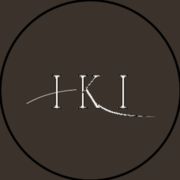
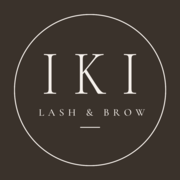
Rename to IKI Lash & Brow
- Brand name, page titles, structured data, manifest and READMEs now read
  "IKI Lash & Brow"; the studio is called "studio" in the copy.
- LASH & BROW is set in spaced Cormorant Garamond capitals with a short
  rule under it, as on the new brand board (hero, header, footer).
- Round studio badge on the portrait, and as the app icons.
- New social images with the new name.

diff --git a/site/src/data/site.ts b/site/src/data/site.ts
@@ -25,11 +25,11 @@ export const ACCENT_PRESETS = {
 } as const;
 
 export const SITE = {
-	name: 'IKI Lash Atelier',
+	name: 'IKI Lash & Brow',
 	/** First name of the artist (about text, structured data) */
 	artist: 'Mai',
 	/** The wordmark (drawn as the logo), then the words spelled out under it */
-	heroLines: ['IKI', 'Lash Atelier'],
+	heroLines: ['IKI', 'Lash & Brow'],
 	/**
 	 * City of the studio. The most important detail for local search
 	 * ("Wimpernverlängerung Hamburg"): once filled in, it is added to the page
@@ -101,22 +101,22 @@ const BRUSH = ['.......##', '......###', '.....###.', '....##...', '...#.....', 
  */
 const en = {
 	meta: {
-		title: 'Lash Extensions & Permanent Makeup | IKI Lash Atelier',
+		title: 'Lash Extensions & Permanent Makeup | IKI Lash & Brow',
 		/** Used instead of `title` once SITE.city is filled in */
-		titleCity: 'Lash Extensions & Permanent Makeup in {city} | IKI Lash Atelier',
+		titleCity: 'Lash Extensions & Permanent Makeup in {city} | IKI Lash & Brow',
 		description:
 			'Natural lash extensions, signature lash design, powder brows, lip blush and permanent eyeliner, plus bridal makeup. Naturally beautiful, individually designed.',
 		jobTitle: 'Lash artist, permanent makeup artist & makeup artist',
 		image: '/og-image.jpg',
-		imageAlt: 'IKI Lash Atelier — lash extensions and permanent makeup',
+		imageAlt: 'IKI Lash & Brow — lash extensions, brows and permanent makeup',
 	},
 	copy: {
 		hero: {
 			label: '[Lashes · Permanent makeup · Makeup artist]',
-			tagline: 'Naturally beautiful, individually designed. Eight images to step inside the atelier.',
+			tagline: 'Naturally beautiful, individually designed. Eight images to step inside the studio.',
 		},
 		intro: {
-			label: '[01] — Atelier',
+			label: '[01] — Studio',
 			title: ['Naturally', 'beautiful.'],
 			text: 'Lash extensions, permanent makeup for brows, lips and eyes, and makeup for your wedding or shoot. Every look is designed for your face with precision and restraint, to enhance your natural features, never to cover them.',
 			primaryCta: 'Book an appointment',
@@ -173,7 +173,7 @@ const en = {
 		},
 		footer: {
 			description:
-				'Lash atelier for natural lash extensions and permanent makeup, and makeup artist for weddings, events and shoots.',
+				'Lash & brow studio for natural lash extensions and permanent makeup, and makeup artist for weddings, events and shoots.',
 		},
 		header: { cta: 'Book now', ctaShort: 'Book' },
 	},
@@ -265,7 +265,7 @@ const en = {
 	process: [
 		{
 			title: 'Consult',
-			text: 'A free 15-minute chat, in the atelier or by video. We talk about your wishes, your eye and face shape, and the treatment that suits you.',
+			text: 'A free 15-minute chat, in the studio or by video. We talk about your wishes, your eye and face shape, and the treatment that suits you.',
 			duration: '15 min',
 			icon: 'chat',
 		},
@@ -277,7 +277,7 @@ const en = {
 		},
 		{
 			title: 'Session',
-			text: 'A calm session in the atelier: lashes applied one by one, pigment placed dot by dot. Most clients relax; many fall asleep.',
+			text: 'A calm session in the studio: lashes applied one by one, pigment placed dot by dot. Most clients relax; many fall asleep.',
 			duration: '1–2.5 h',
 			icon: LASHES,
 		},
@@ -497,21 +497,21 @@ export type Content = typeof en;
 
 const de: Content = {
 	meta: {
-		title: 'Wimpernverlängerung & Permanent Make-up | IKI Lash Atelier',
-		titleCity: 'Wimpernverlängerung & Permanent Make-up in {city} | IKI Lash Atelier',
+		title: 'Wimpernverlängerung & Permanent Make-up | IKI Lash & Brow',
+		titleCity: 'Wimpernverlängerung & Permanent Make-up in {city} | IKI Lash & Brow',
 		description:
 			'Natürliche Wimpernverlängerung, Signature Design, Powder Brows, Lip Blush und Permanent Eyeliner – dazu Braut-Make-up. Natürlich schön. Individuell gestaltet.',
 		jobTitle: 'Lash-Artistin, Permanent-Make-up-Artistin & Visagistin',
 		image: '/og-image-de.jpg',
-		imageAlt: 'IKI Lash Atelier — Wimpernverlängerung und Permanent Make-up',
+		imageAlt: 'IKI Lash & Brow — Wimpernverlängerung, Augenbrauen und Permanent Make-up',
 	},
 	copy: {
 		hero: {
 			label: '[Wimpern · Permanent Make-up · Visagistin]',
-			tagline: 'Natürlich schön. Individuell gestaltet. Acht Bilder, um ins Atelier zu blicken.',
+			tagline: 'Natürlich schön. Individuell gestaltet. Acht Bilder, um ins Studio zu blicken.',
 		},
 		intro: {
-			label: '[01] — Atelier',
+			label: '[01] — Studio',
 			title: ['Natürlich', 'schön.'],
 			text: 'Wimpernverlängerung, Permanent Make-up für Brauen, Lippen und Augen und Make-up für deine Hochzeit oder dein Shooting. Jeder Look wird mit Präzision und Zurückhaltung für dein Gesicht gestaltet – um deine natürlichen Züge zu betonen, nie um sie zu überdecken.',
 			primaryCta: 'Termin buchen',
@@ -567,7 +567,7 @@ const de: Content = {
 		},
 		footer: {
 			description:
-				'Lash Atelier für natürliche Wimpernverlängerung und Permanent Make-up – und Visagistin für Hochzeiten, Events und Shootings.',
+				'Lash & Brow Studio für natürliche Wimpernverlängerung und Permanent Make-up – und Visagistin für Hochzeiten, Events und Shootings.',
 		},
 		header: { cta: 'Termin buchen', ctaShort: 'Termin' },
 	},
@@ -658,7 +658,7 @@ const de: Content = {
 	process: [
 		{
 			title: 'Beratung',
-			text: 'Ein kostenloses 15-Minuten-Gespräch, im Atelier oder per Video. Wir sprechen über deine Wünsche, deine Augen- und Gesichtsform und die Behandlung, die zu dir passt.',
+			text: 'Ein kostenloses 15-Minuten-Gespräch, im Studio oder per Video. Wir sprechen über deine Wünsche, deine Augen- und Gesichtsform und die Behandlung, die zu dir passt.',
 			duration: '15 Min.',
 			icon: 'chat',
 		},
@@ -670,7 +670,7 @@ const de: Content = {
 		},
 		{
 			title: 'Behandlung',
-			text: 'Eine ruhige Sitzung im Atelier: Wimpern einzeln gesetzt, Pigment Punkt für Punkt. Die meisten entspannen sich, viele schlafen sogar ein.',
+			text: 'Eine ruhige Sitzung im Studio: Wimpern einzeln gesetzt, Pigment Punkt für Punkt. Die meisten entspannen sich, viele schlafen sogar ein.',
 			duration: '1–2,5 Std.',
 			icon: LASHES,
 		},

diff --git a/site/src/components/ui/brand-badge.tsx b/site/src/components/ui/brand-badge.tsx
@@ -1,0 +1,48 @@
+import { SITE } from '@/data/site';
+import { useInView } from '@/hooks/use-in-view';
+import { LOGO } from '@/lib/logo';
+import { cn } from '@/lib/utils';
+
+// The IKI letters span x 36 → 1490 and y -625 → 0 in font units
+const SCALE = 0.066;
+const LETTERS = `translate(${(100 - 763 * SCALE).toFixed(2)} 99) scale(${SCALE})`;
+
+/**
+ * The round studio sign of the brand board: a fine ring around IKI, the words
+ * under it and a short rule. The ring is drawn once the badge scrolls into view.
+ */
+export default function BrandBadge({ className }: { className?: string }) {
+	const [ref, inView] = useInView<SVGSVGElement>(0.4);
+	return (
+		<svg ref={ref} viewBox="0 0 200 200" aria-hidden="true" className={cn('block overflow-visible', className)}>
+			<circle cx="100" cy="100" r="99" className="fill-ink" />
+			<circle
+				cx="100"
+				cy="100"
+				r="92"
+				fill="none"
+				stroke="currentColor"
+				strokeWidth="0.8"
+				pathLength={1}
+				strokeDasharray={1}
+				transform="rotate(-90 100 100)"
+				className={inView ? 'animate-[draw_1.8s_cubic-bezier(.6,0,.2,1)_both]' : '[stroke-dashoffset:1]'}
+			/>
+			<g className={cn('transition-opacity duration-1000', inView ? 'opacity-100 delay-500' : 'opacity-0')}>
+				<path d={LOGO.letters} transform={LETTERS} fill="currentColor" />
+				<text
+					x="100"
+					y="124"
+					textAnchor="middle"
+					textLength="92"
+					lengthAdjust="spacing"
+					fill="currentColor"
+					className="brand-line text-[10.5px]"
+				>
+					{SITE.heroLines[1]}
+				</text>
+				<path d="M90 138h20" stroke="currentColor" strokeWidth="0.7" />
+			</g>
+		</svg>
+	);
+}

diff --git a/site/src/components/about-section.tsx b/site/src/components/about-section.tsx
@@ -1,3 +1,4 @@
+import BrandBadge from '@/components/ui/brand-badge';
 import DecodeText from '@/components/ui/decode-text';
 import PixelButton from '@/components/ui/pixel-button';
 import PixelEdgeImage from '@/components/ui/pixel-edge-image';
@@ -13,13 +14,15 @@ export default function AboutSection() {
 		<section id="apropos" className="relative z-10 scroll-mt-20 border-t border-line bg-ink">
 			<div className="mx-auto grid max-w-[1400px] items-center gap-14 px-5 py-24 md:px-10 md:py-36 lg:grid-cols-12 lg:gap-12">
 				{/* Portrait melting into the page through black pixels */}
-				<div className="lg:col-span-5">
+				<div className="relative lg:col-span-5">
 					<PixelEdgeImage
 						src={media.about.src}
 						alt={media.about.alt || COPY.about.title.join(' ')}
 						protect={ABOUT_FACE}
 						className="aspect-[4/5] w-full"
 					/>
+					{/* The round studio sign, set like a stamp on the corner of the portrait */}
+					<BrandBadge className="absolute -bottom-10 right-4 w-28 text-paper md:-bottom-12 md:right-6 md:w-36" />
 				</div>
 
 				<div className="lg:col-span-6 lg:col-start-7">

diff --git a/site/src/components/site-footer.tsx b/site/src/components/site-footer.tsx
@@ -31,9 +31,10 @@ export default function SiteFooter() {
 		<footer className="theme-dark relative z-10 border-t border-line bg-ink text-paper">
 			<div className="mx-auto grid max-w-[1400px] grid-cols-2 gap-10 px-5 py-16 text-[11px] uppercase tracking-[0.2em] md:grid-cols-4 md:px-10">
 				<div className="col-span-2 md:col-span-1">
-					<p className="flex flex-col items-start gap-2">
+					<p className="inline-flex flex-col items-center gap-2.5">
 						<BrandLogo className="h-10" title={SITE.name} />
-						<span className="pl-[0.35em] text-[9px] tracking-[0.42em] text-stone">{SITE.heroLines[1]}</span>
+						<span className="brand-line pl-[0.38em] text-[12px] text-paper/80">{SITE.heroLines[1]}</span>
+						<span aria-hidden="true" className="h-px w-8 bg-stone" />
 					</p>
 					<p className="mt-4 max-w-[16rem] normal-case leading-relaxed tracking-normal text-paper/60">
 						{COPY.footer.description}

diff --git a/site/src/fonts.css b/site/src/fonts.css
@@ -68,7 +68,7 @@
   font-style: normal;
   font-weight: 500;
   font-display: swap;
-  src: url('/fonts/cormorant-garamond-300-latin-ext.woff2') format('woff2');
+  src: url('/fonts/cormorant-garamond-500-latin-ext.woff2') format('woff2');
   unicode-range: U+0100-02BA, U+02BD-02C5, U+02C7-02CC, U+02CE-02D7, U+02DD-02FF, U+0304, U+0308, U+0329, U+1D00-1DBF, U+1E00-1E9F, U+1EF2-1EFF, U+2020, U+20A0-20AB, U+20AD-20C4, U+2113, U+2C60-2C7F, U+A720-A7FF;
 }
 @font-face {
@@ -76,7 +76,7 @@
   font-style: normal;
   font-weight: 500;
   font-display: swap;
-  src: url('/fonts/cormorant-garamond-300-latin.woff2') format('woff2');
+  src: url('/fonts/cormorant-garamond-500-latin.woff2') format('woff2');
   unicode-range: U+0000-00FF, U+0131, U+0152-0153, U+02BB-02BC, U+02C6, U+02DA, U+02DC, U+0304, U+0308, U+0329, U+2000-206F, U+20AC, U+2122, U+2191, U+2193, U+2212, U+2215, U+FEFF, U+FFFD;
 }
 @font-face {

diff --git a/site/src/index.css b/site/src/index.css
@@ -7,7 +7,7 @@
   --font-pixel: 'Cormorant Garamond', 'Times New Roman', serif;
   --font-serif: 'Cormorant Garamond', 'Times New Roman', serif;
 
-  /* IKI palette: Atelier Ivory, Warm Sand, Soft Taupe, Champagne, Deep Espresso, Ink Black.
+  /* IKI palette: Ivory, Warm Sand, Soft Taupe, Champagne, Deep Espresso, Ink Black.
      "ink" is the background and "paper" the text: light sections by default,
      dark ones (intro, footer) swap them with .theme-dark */
   --color-ink: #f5f0eb;
@@ -89,4 +89,12 @@ html.has-pixel-cursor * {
   to {
     transform: scaleX(1);
   }
+}
+
+/* "LASH & BROW" under the wordmark: spaced serif capitals, as on the brand board */
+@utility brand-line {
+  font-family: var(--font-serif);
+  font-weight: 500;
+  text-transform: uppercase;
+  letter-spacing: 0.38em;
 }

diff --git a/site/src/components/photography-hero.tsx b/site/src/components/photography-hero.tsx
@@ -221,7 +221,15 @@ export default function PhotographyHero({
 						out={leaving}
 						delay={700}
 						duration={1300}
-						className="mt-5 block pl-[0.6em] text-[clamp(0.8rem,1.7vw,1.15rem)] font-medium uppercase tracking-[0.6em] md:mt-7"
+						className="brand-line mt-5 block pl-[0.38em] text-[clamp(1rem,2.1vw,1.45rem)] md:mt-7"
+					/>
+					{/* The short rule under the name, as on the brand board */}
+					<span
+						aria-hidden="true"
+						className={cn(
+							'mt-4 block h-px w-12 bg-current transition-transform duration-1000 ease-[cubic-bezier(.6,0,.2,1)] md:mt-5 md:w-16',
+							started && !leaving ? 'scale-x-100 delay-[1300ms]' : 'scale-x-0'
+						)}
 					/>
 				</h1>
 				<DecodeText

diff --git a/site/admin/projets.html b/site/admin/projets.html
@@ -3,7 +3,7 @@
 <link rel="preconnect" href="https://fonts.gstatic.com" crossorigin>
 <link rel="stylesheet" href="https://fonts.googleapis.com/css2?family=Cormorant+Garamond:ital,wght@0,300;0,400;1,400&family=Manrope:wght@300..700&display=swap">
 <style>
-/* Layout: the IKI atelier look of the site — ivory background, espresso text,
+/* Layout: the IKI Lash & Brow look of the site — ivory background, espresso text,
    champagne details, Cormorant Garamond titles and Manrope for the interface.
    Project list on the left, the selected project's editor on the right
    (title, image, details, text, gallery), a publish bar on top. The interface

diff --git a/site/index.html b/site/index.html
@@ -12,6 +12,7 @@
     <link rel="manifest" href="/site.webmanifest" />
     <link rel="preload" href="/fonts/cormorant-garamond-300-latin.woff2" as="font" type="font/woff2" crossorigin />
     <link rel="preload" href="/fonts/manrope-300-700-latin.woff2" as="font" type="font/woff2" crossorigin />
+    <link rel="preload" href="/fonts/cormorant-garamond-500-latin.woff2" as="font" type="font/woff2" crossorigin />
     <style>
       /* Plain version of the page, shown until the app starts (and to search engines) */
       html { background: #f5f0eb; color: #3a322b; }

diff --git a/site/src/components/site-header.tsx b/site/src/components/site-header.tsx
@@ -74,7 +74,7 @@ export default function SiteHeader() {
 						className="flex min-w-0 flex-col items-start gap-1 whitespace-nowrap"
 					>
 						<BrandLogo className="h-6 md:h-7" />
-						<span className="min-w-0 truncate pl-[0.35em] text-[8px] uppercase tracking-[0.42em] text-stone md:text-[9px]">
+						<span className="brand-line min-w-0 truncate pl-[0.38em] text-[10px] leading-none text-stone md:text-[11px]">
 							<DecodeText text={SITE.heroLines[1]} duration={900} />
 						</span>
 					</a>

diff --git a/site/vite.config.ts b/site/vite.config.ts
@@ -8,7 +8,7 @@ import type { Lang } from './src/data/site'
 
 /**
  * Where the site is served from. BASE_PATH = folder ('/' on its own domain,
- * '/iki-lash-atelier/' on GitHub Pages). SITE_URL = address, otherwise siteUrl
+ * '/iki-lash-brow/' on GitHub Pages). SITE_URL = address, otherwise siteUrl
  * from deploy.config.json (filled in by the publish task once the Hostinger
  * domain is known). PREVIEW=1 marks a test copy search engines must not index.
  */

diff --git a/site/src/lib/base.ts b/site/src/lib/base.ts
@@ -1,4 +1,4 @@
-/** Folder the site is served from: '/' on its own domain, '/iki-lash-atelier/' on GitHub Pages */
+/** Folder the site is served from: '/' on its own domain, '/iki-lash-brow/' on GitHub Pages */
 export const BASE = import.meta.env.BASE_URL;
 
 /** Site path (/media/…, /projects/…) → path inside the folder the site is served from */
